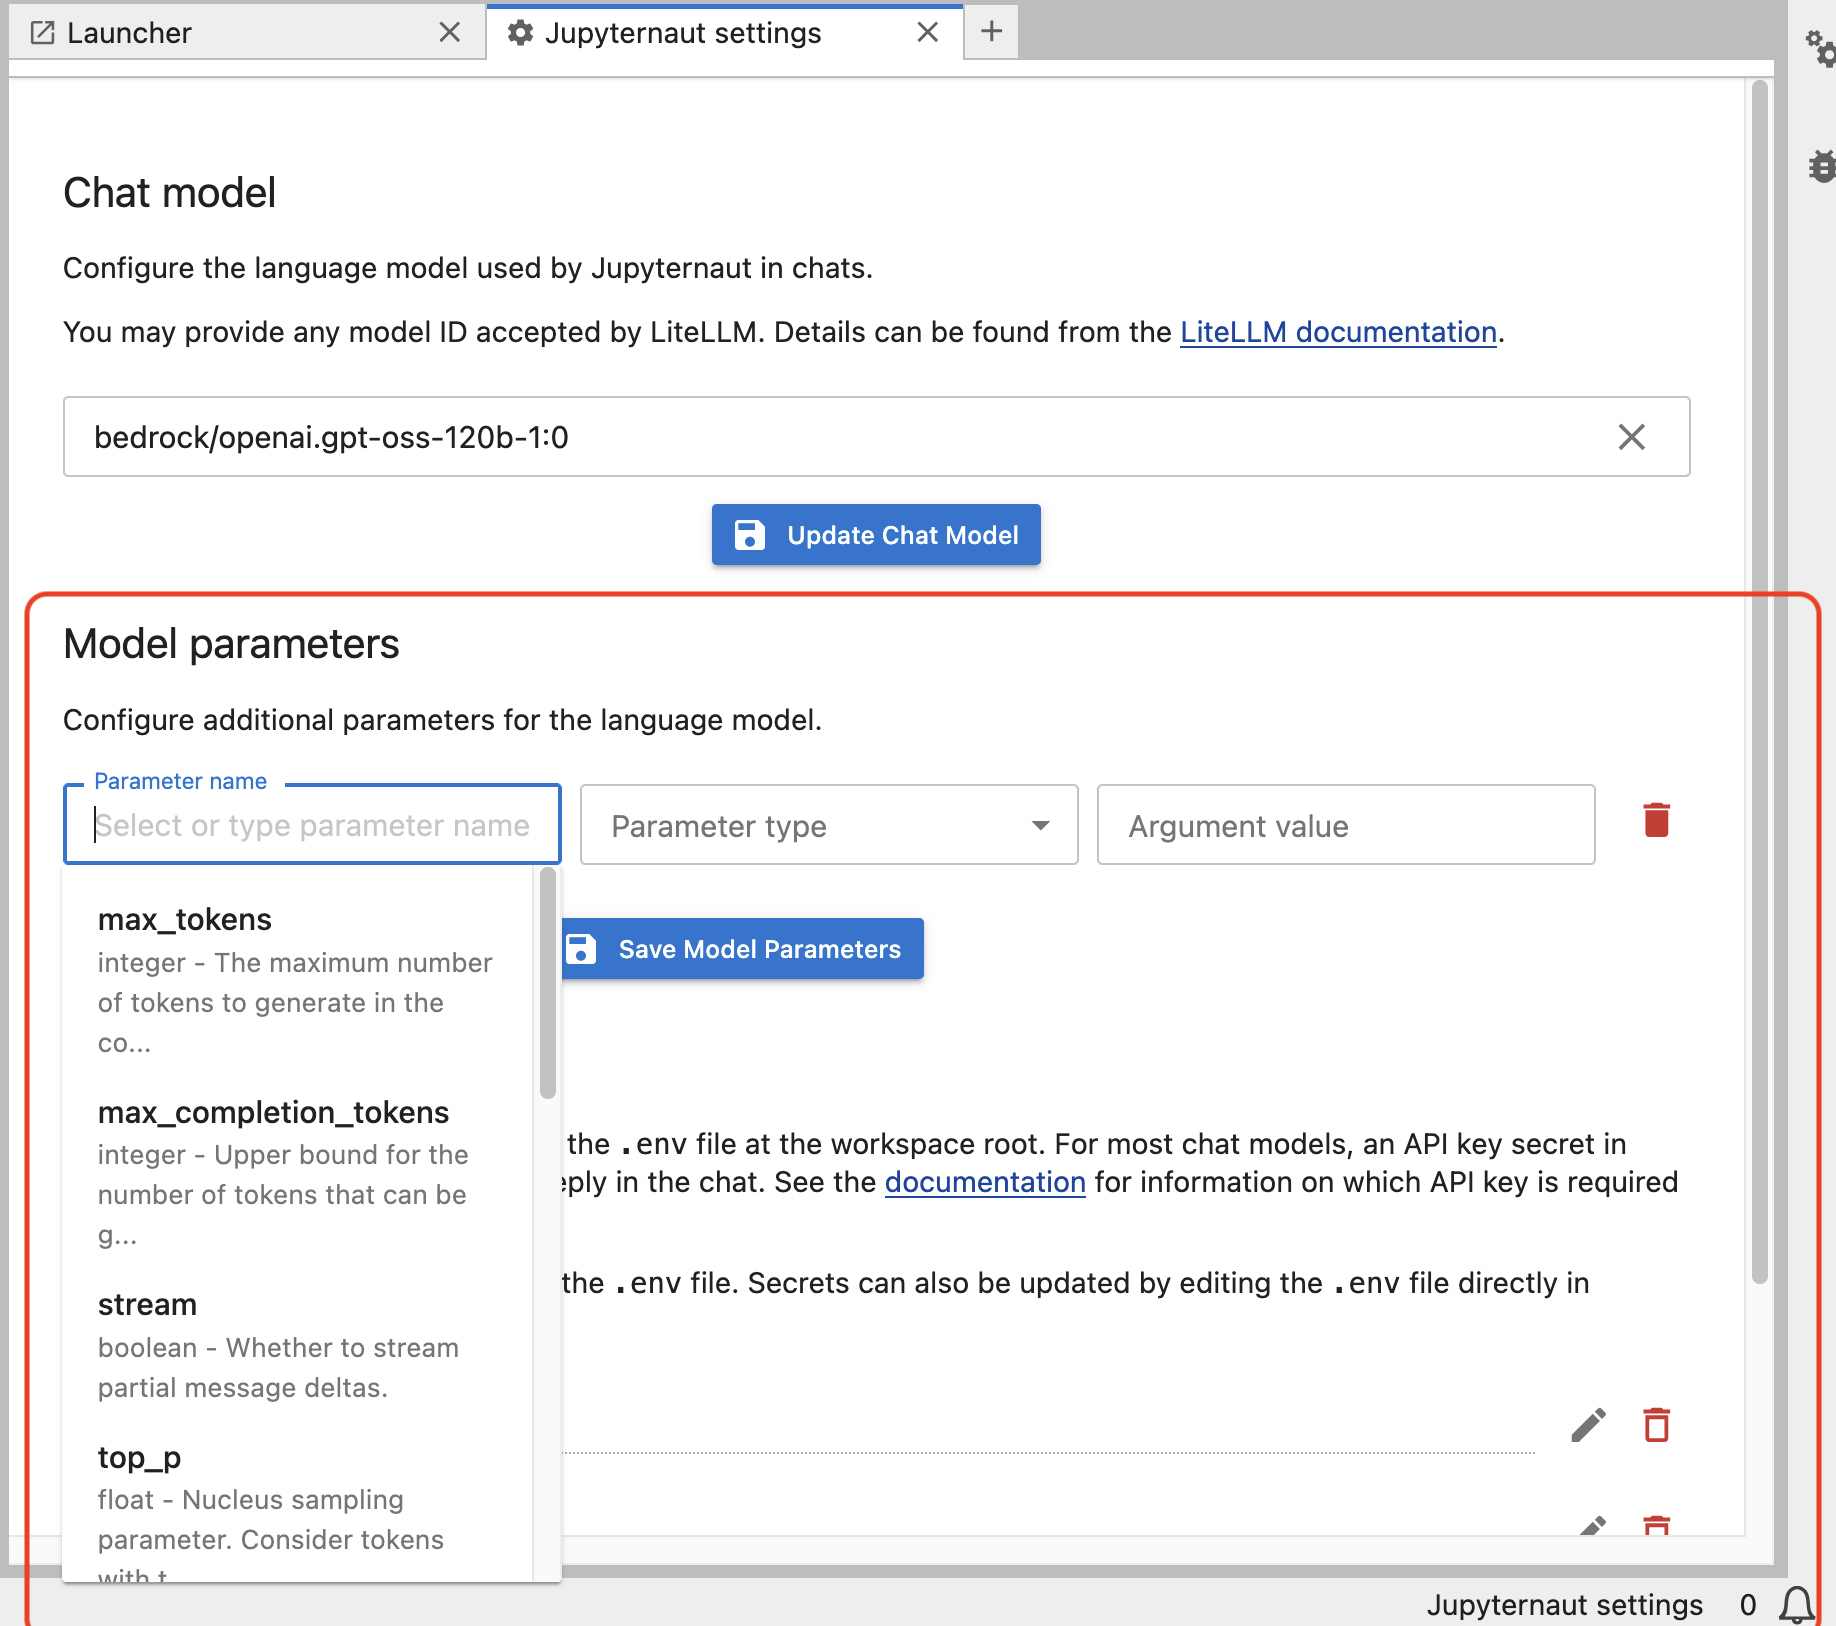
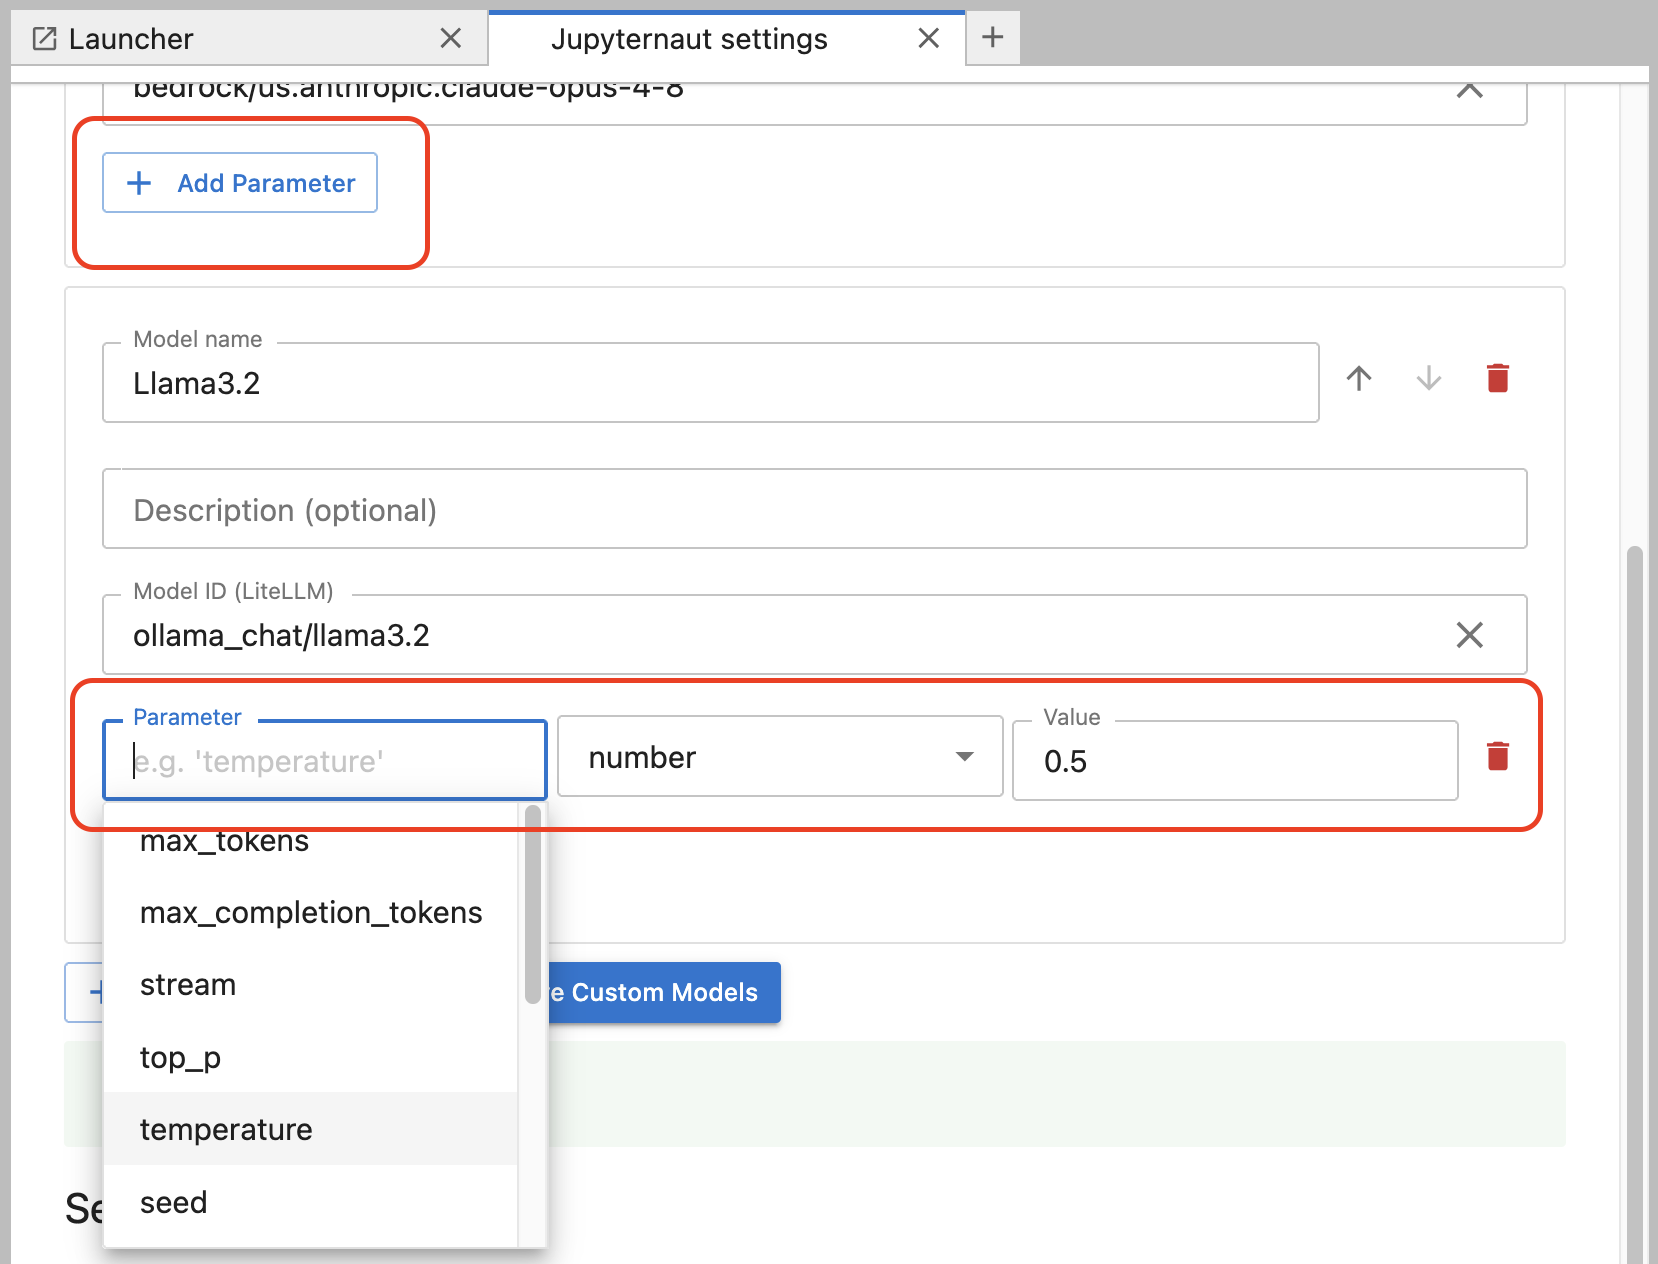
Updated Jupyternaut docs (#1625)
Updated all screenshots for the new UI in Jupyter AI v3.1. Also edited the text to reflect the new screenshots.

diff --git a/docs/source/users/jupyternaut/index.md b/docs/source/users/jupyternaut/index.md
@@ -56,17 +56,34 @@ Settings`, where you can see the models by typing in a search string.
 
 The LiteLLM interface does not show _all_ available models and you can see the [full list of providers and models](https://docs.litellm.ai/docs/providers) online.
 
+Each model that is added to the Custom models list will appear at the top of the model picker as shown here: 
+
+<img src="../../_static/jupyternaut-model-picker.png"
+    alt="Chat model picker"
+    class="screenshot" />
+
+This ability to pick a custom model in Jupyternaut from a set of custom models instantiated by the user makes Jupyternaut multi-model. This means you can use multiple different AI models simultaneously within the  Jupyternaut persona in the same chat thread.  
+
 To use Jupyter AI with a particular provider, you must set its API key (or other credentials) in the Jupyternaut settings, as needed. The names of the API keys are available from the LiteLLM documentation for each provider.
 
 <img src="../../_static/jupyternaut-settings-api-keys.png"
     alt="Chat settings interface with Juptyter Lab"
     class="screenshot" />
 
-In the same interface it is also possible to set model parameters. This is a new feature in v3.
+After saving the key, the model will be available for use in the chat interface.
+
+<img src="../../_static/jupyternaut-settings-api-keys-2.png"
+    alt="Chat settings interface with Juptyter Lab"
+    class="screenshot" />
+
+
+In the same interface it is also possible to set model parameters. This is a new feature in v3. See the `+ Add Parameter` button in the screenshots above. 
 
 <img src="../../_static/jupyternaut-settings-model-parameters.png"
     alt="Chat settings interface with Juptyter Lab"
     class="screenshot" />
+
+Thus each Jupyternaut custom model will be able to be parameterized as needed. Users can name these custom models in any way they wish to conform to their internal naming conventions, as needed. 
 
 Here are some examples of additional packages that may be installed as needed:
 
@@ -96,7 +113,7 @@ Likewise, for many models, you may directly choose the OpenAI provider in Jupyte
 
 ### Ollama usage
 
-To get started, follow the instructions on the [Ollama website](https://ollama.com/) to set up `ollama` and download the models locally. To select a model, enter the model name in the settings panel, for example `deepseek-coder-v2`. You can see all locally available models with `ollama list`.
+To get started, follow the instructions on the [Ollama website](https://ollama.com/) to set up `ollama` and download the models locally. To select a model, enter the model name in the settings panel, for example `deepseek-coder-v2`. You can see all locally available models with `ollama list` in any terminal.
 
 For the Ollama models to be available to JupyterLab-AI, your Ollama server _must_ be running. You can check that this is the case by calling `ollama serve` at the terminal, and should see something like:
 

diff --git a/docs/source/users/index.md b/docs/source/users/index.md
@@ -81,13 +81,13 @@ As another example, see how Claude can be used via ACP in the following screens,
     width="500"
     height="auto" />
 
-#### Model attributes
+#### Model Mode
 <img src="../_static/chat-acp-claude-attribute.png"
     class="screenshot"
     width="500"
     height="auto" />
 
-#### Selecting Mode
+#### Selecting Effort
 <img src="../_static/chat-acp-claude-mode.png"
     class="screenshot"
     width="500"
